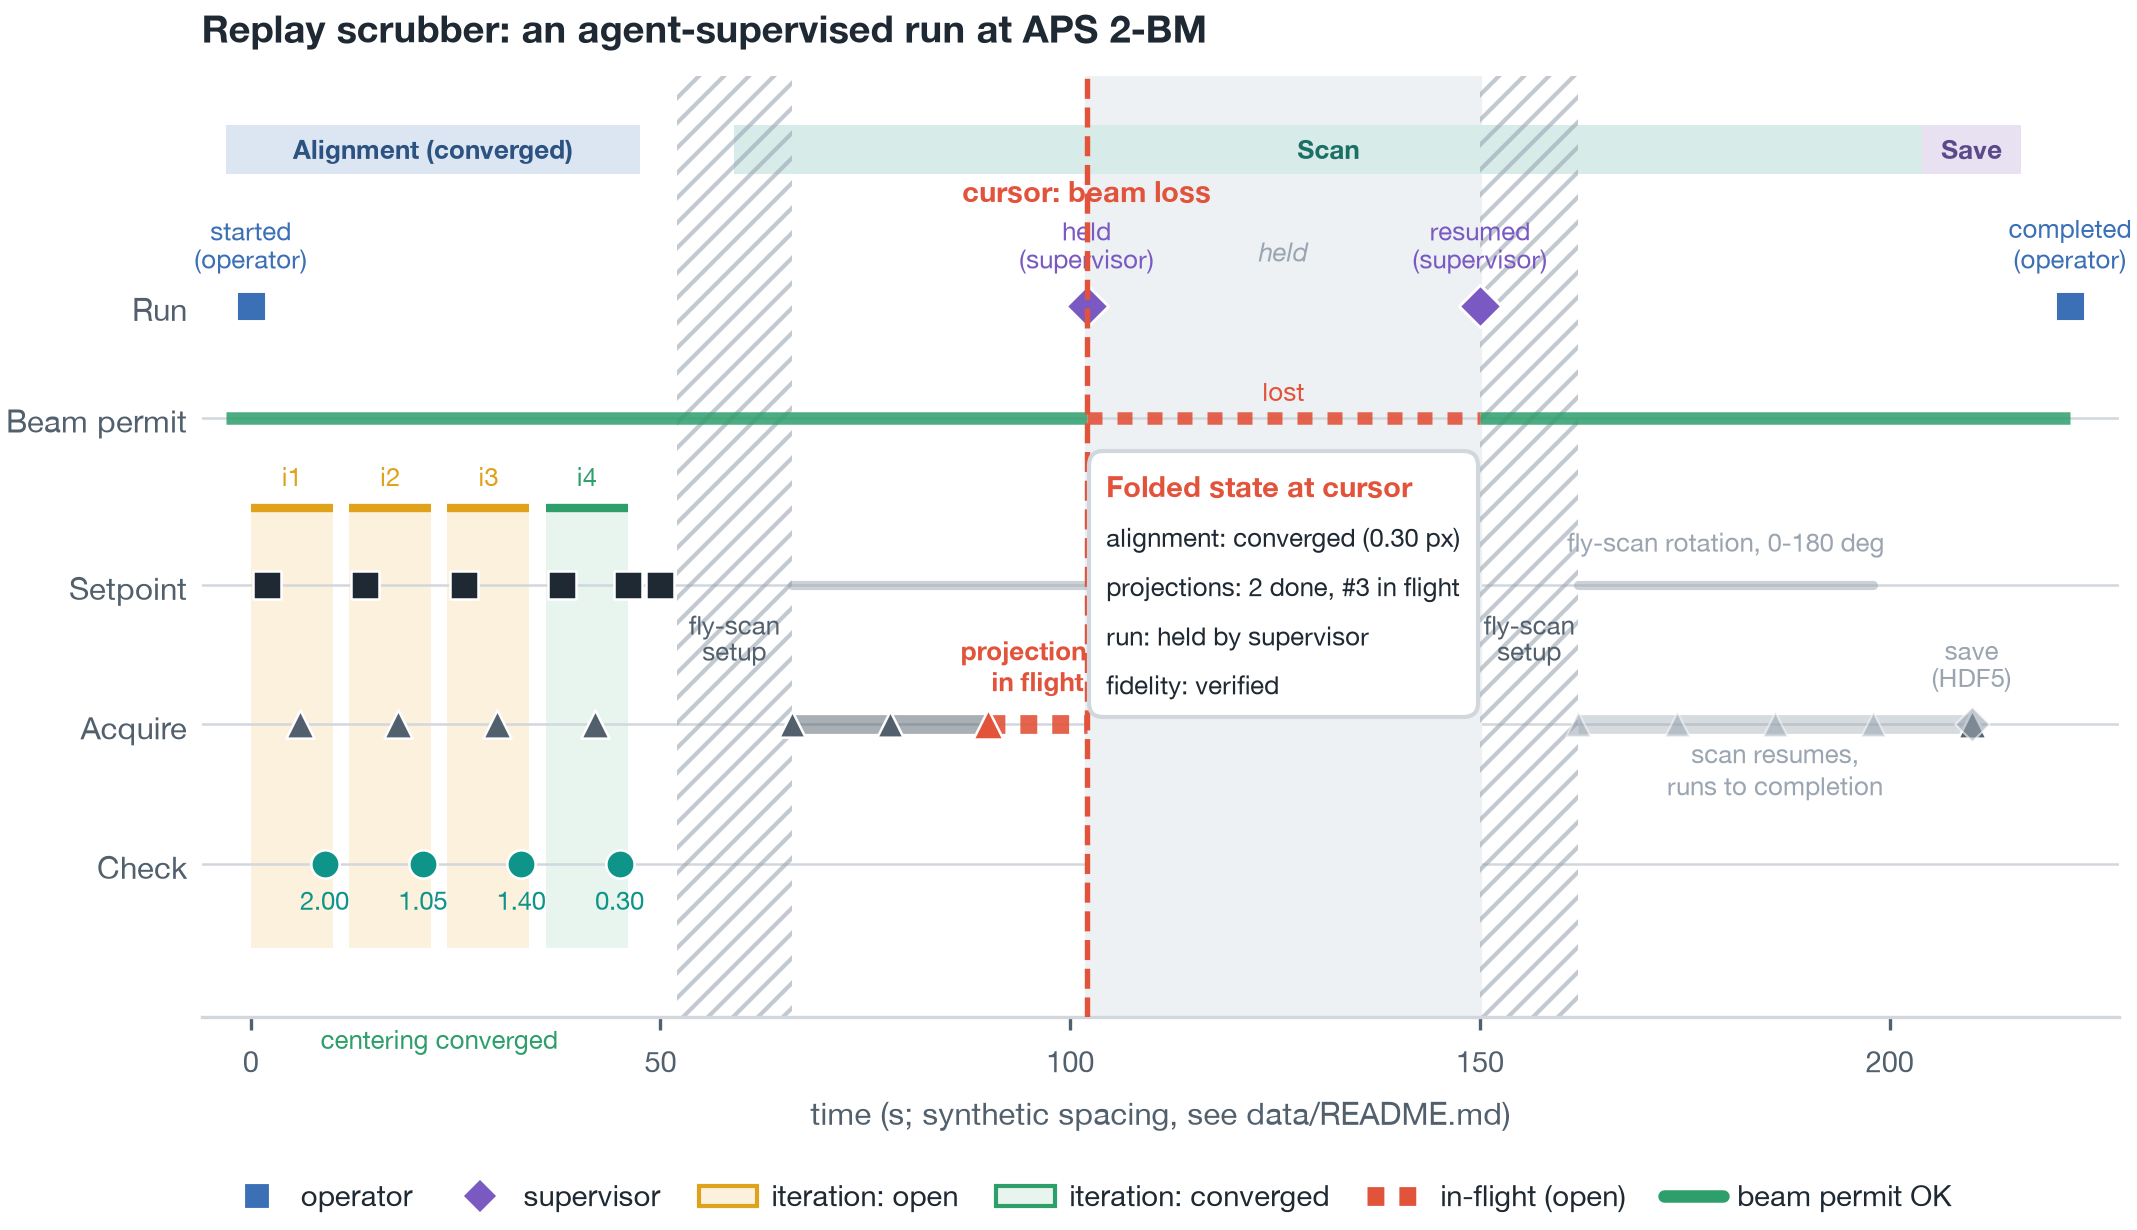
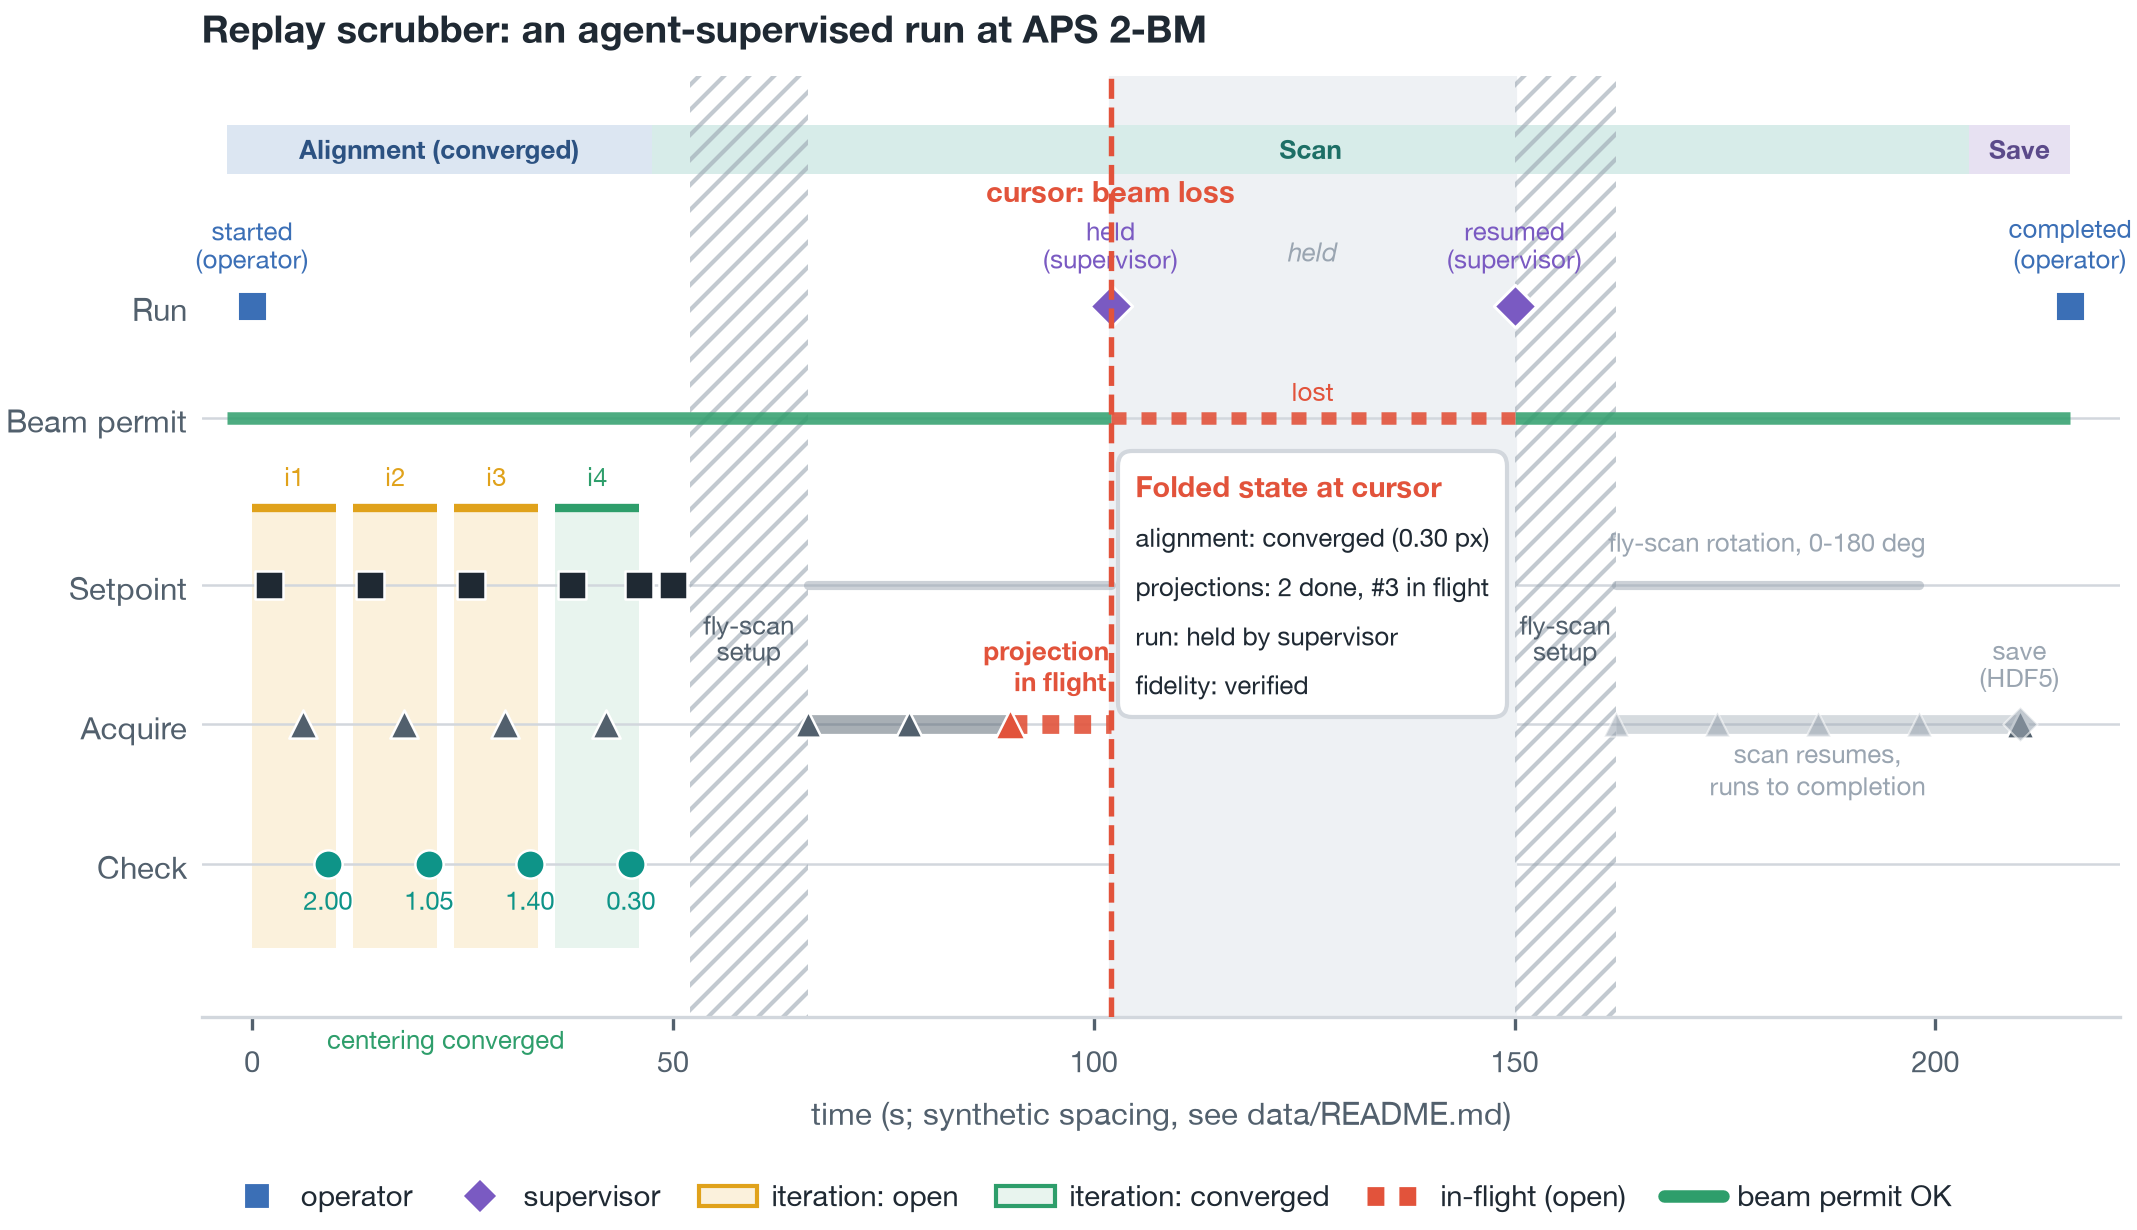
docs(papers): close the alignment/scan phase gap; tighten save-to-completed
Two F1 layout fixes.

The Scan phase bar started at the first projection, leaving an unlabelled gap
over the fly-scan setup that sits between alignment-end and the first frame. The
setup is the head of the scan, so the Scan bar now begins at alignment-end and
the bars abut with no gap.

RunCompleted fired a full stride after the data save, which read as dead space.
Move completion to right after the save (it is still a separate lifecycle event
after the procedure's save activity, just no longer with a visible gap).

No semantic change: the scan's empty Check lane is faithful (checks are the
alignment's center-of-rotation convergence tests; a fly-scan has no per-frame
check), and the scan's setpoints are the lock + fly-scan rotation already shown.

Builds clean; body still within 6 pages excluding references.

diff --git a/papers/2026-vaxautosci-scrubber/data/build_lights_out_data.py b/papers/2026-vaxautosci-scrubber/data/build_lights_out_data.py
@@ -65,7 +65,7 @@ _ITER_STRIDE = 12.0        # one acquire every 12 s; the whole axis is a 12 s gr
 _BEAM_LOSS = 102.0         # RunHeld: the beam drops during the third projection
 _BEAM_BACK = 150.0         # RunResumed (beam returns) after a 5-stride hold
 _SAVE_AT = 210.0           # write the dataset one stride after the last projection
-_RUN_DONE = 222.0          # run completes after the save
+_RUN_DONE = 216.0          # run completes right after the save
 
 
 def _build() -> dict:

diff --git a/papers/2026-vaxautosci-scrubber/figures/render_f1.py b/papers/2026-vaxautosci-scrubber/figures/render_f1.py
@@ -78,7 +78,7 @@ def main() -> None:
     save_time = next((secs(a["sampled_at"]) for a in acts
                       if a["payload"].get("action_name") == "write_dataset"), None)
     align_end = secs(iters[-1]["ended_at"]) + 1.5
-    scan_start = proj_times[0] - 7
+    scan_start = align_end  # the fly-scan setup is the head of the scan; no gap
     scan_end = (save_time - 6) if save_time is not None else proj_times[-1] + 6
     run_done = max(secs(e["at"]) for e in run_events)
 
